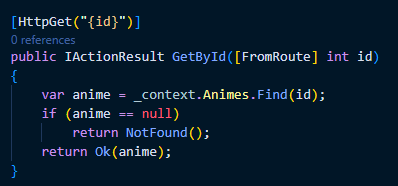
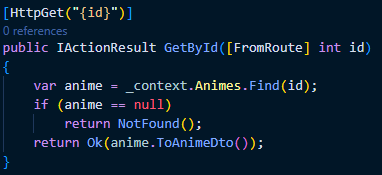
update controllers with mapper update readme image

diff --git a/api/Controllers/AnimeController.cs b/api/Controllers/AnimeController.cs
@@ -16,7 +16,9 @@ namespace api.Controllers
         [HttpGet]
         public IActionResult GetAll()
         {
-            var animes = _context.Animes.ToList();
+            var animes = _context.Animes.ToList()
+            .Select(s => s.ToAnimeDto());
+
             return Ok(animes);
         }
 
@@ -26,7 +28,7 @@ namespace api.Controllers
             var anime = _context.Animes.Find(id);
             if (anime == null)
                 return NotFound();
-            return Ok(anime);
+            return Ok(anime.ToAnimeDto());
         }
     }
 }

diff --git a/api/Controllers/UserController.cs b/api/Controllers/UserController.cs
@@ -17,7 +17,9 @@ namespace api.Controllers
         [HttpGet]
         public IActionResult GetAll()
         {
-            var users = _context.Users.ToList();
+            var users = _context.Users.ToList()
+            .Select(s => s.ToUserDto());
+
             return Ok(users);
         }
 
@@ -27,7 +29,7 @@ namespace api.Controllers
             var user = _context.Users.Find(id);
             if (user == null)
                 return NotFound();
-            return Ok(user);
+            return Ok(user.ToUserDto());
         }
     }
 }
